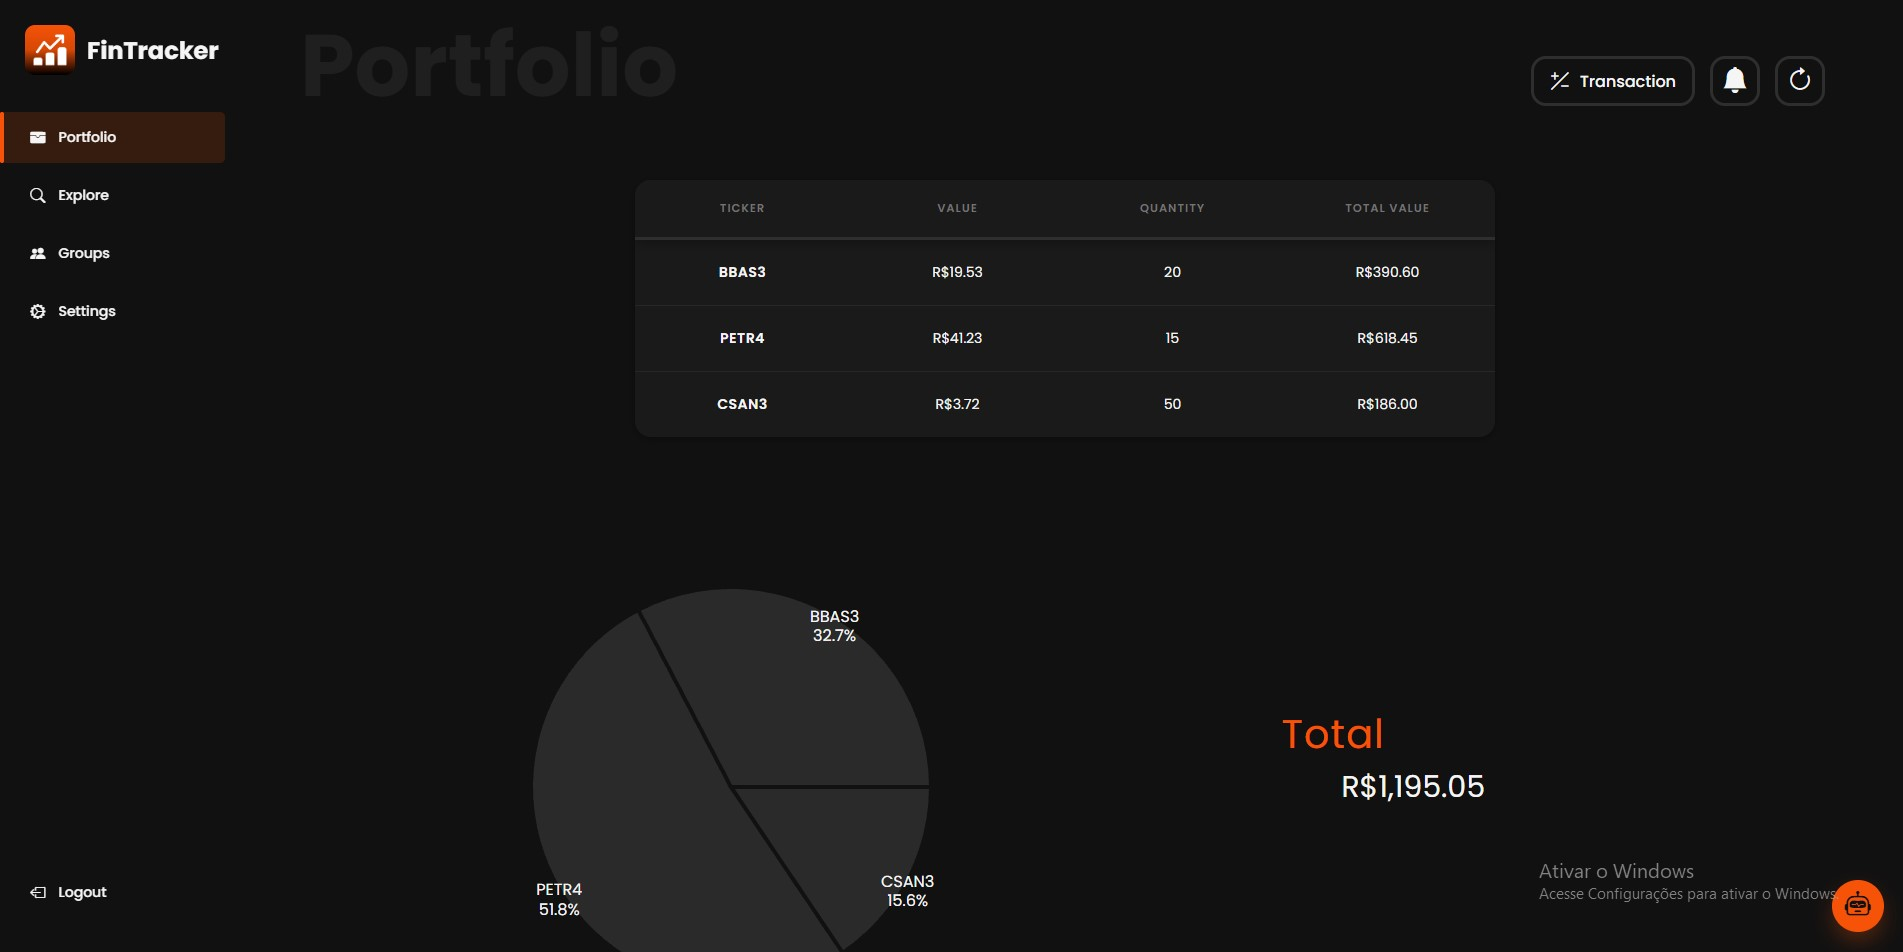
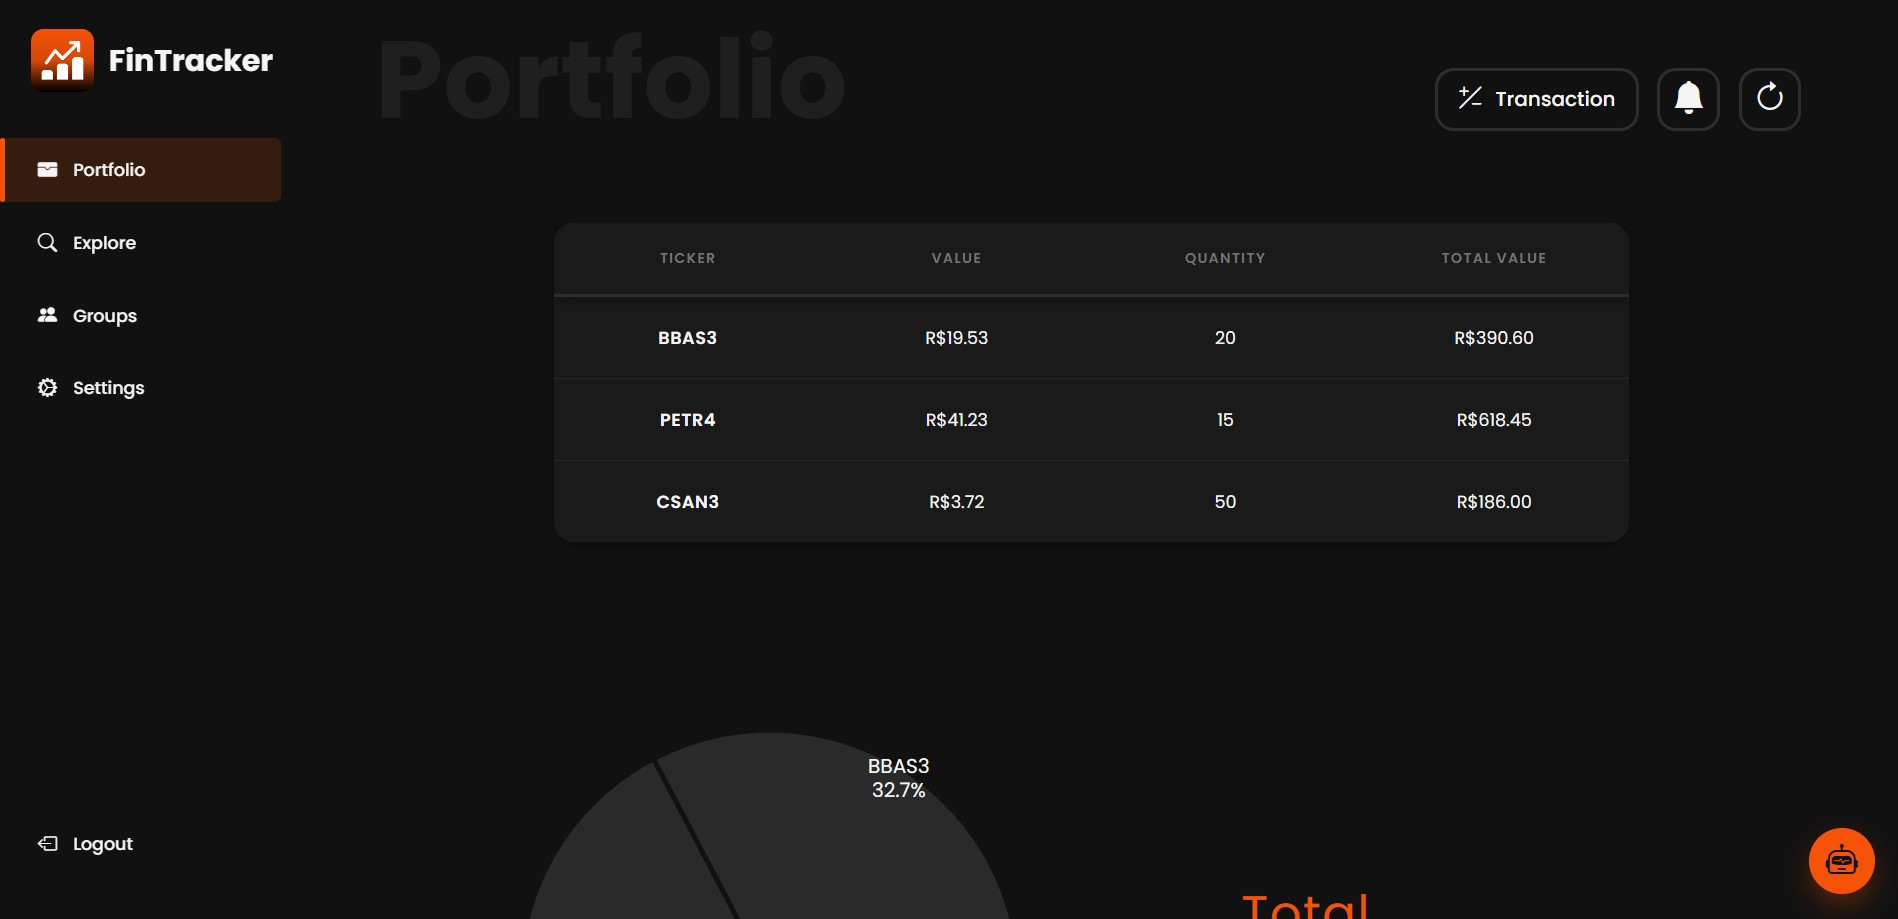
Refresh docs screenshots and README
Remove the stale architecture image reference from the README and refresh the dashboard and group/chatbot screenshots to match the current project documentation.

diff --git a/README.md b/README.md
@@ -124,9 +124,6 @@ flowchart LR
   EF --> GM
 ```
 
-<!-- INSERT HERE (optional): PNG export of the Mermaid diagram above if you want a static image fallback — save as docs/screenshots/03-arquitetura.png -->
-![Architecture diagram](./docs/screenshots/03-arquitetura.png)
-
 ### Repository structure
 
 ```
